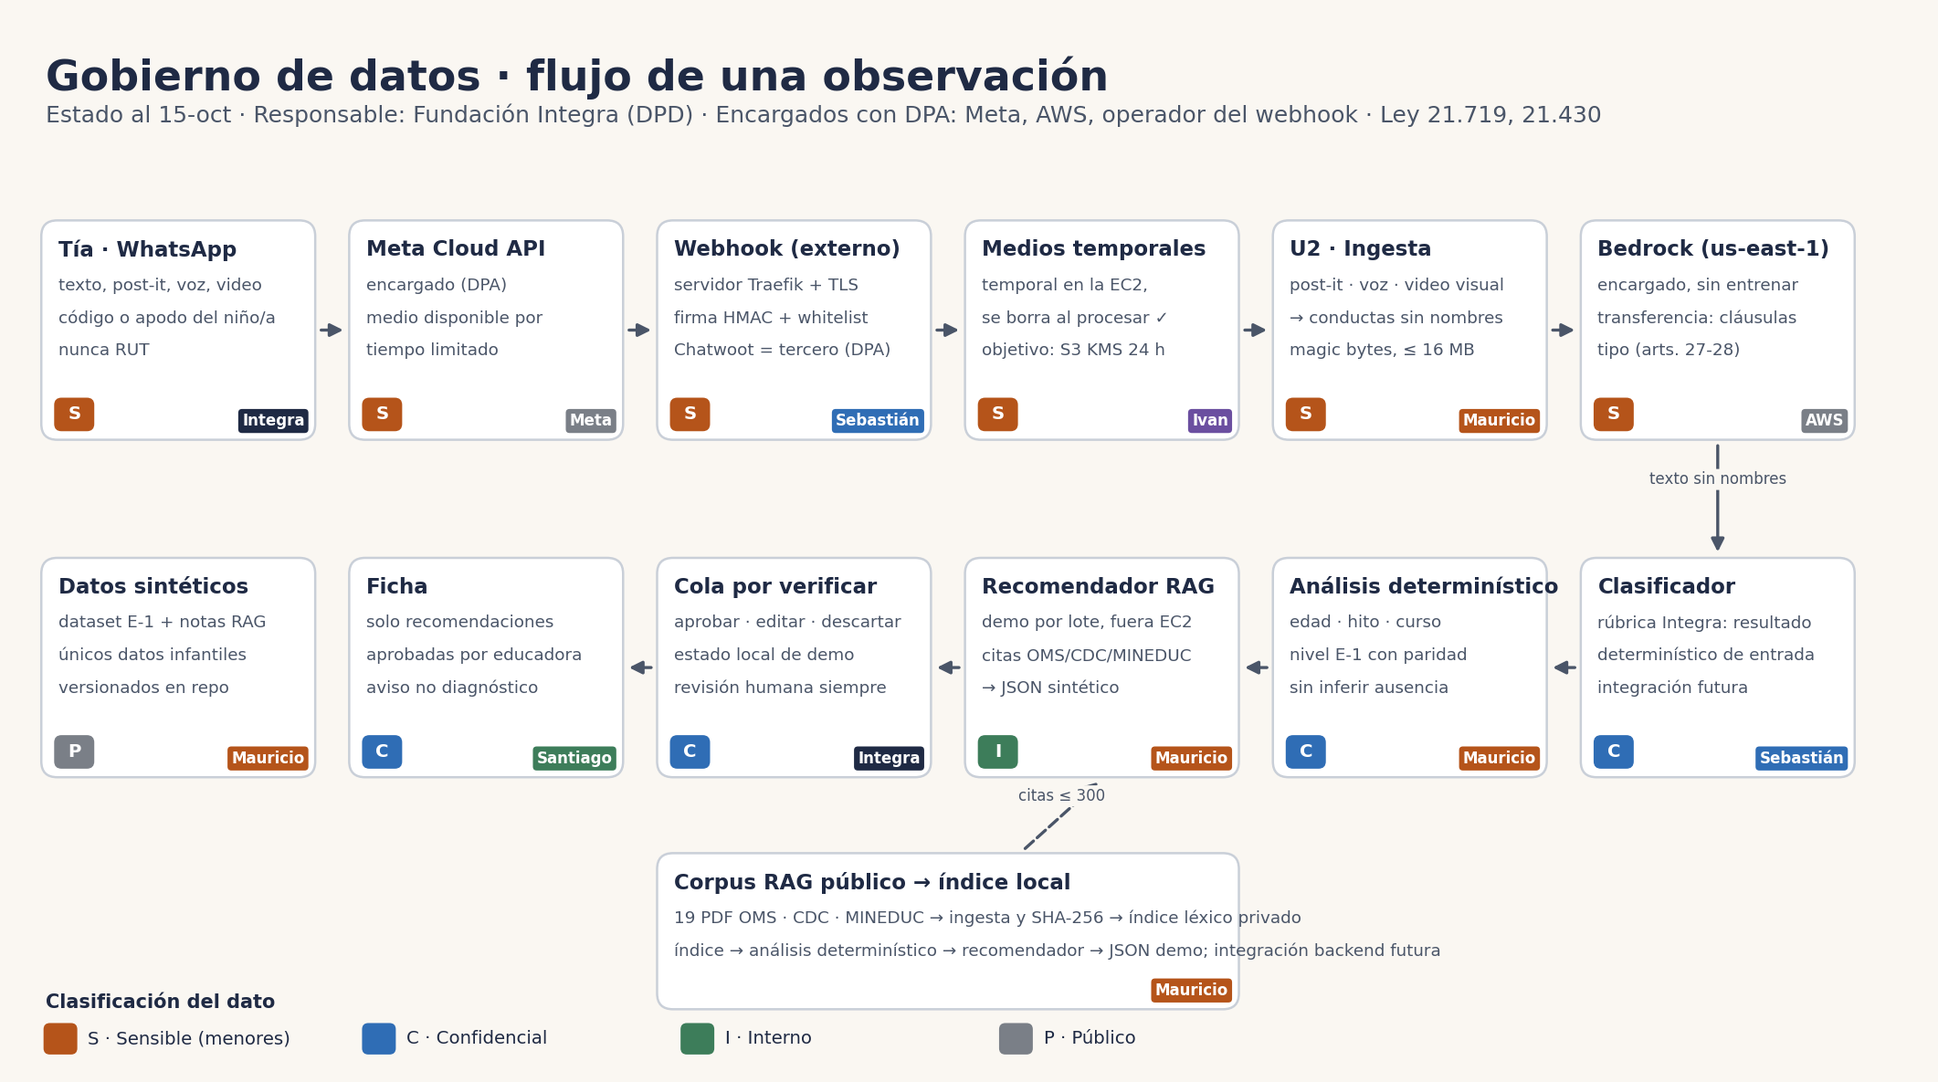
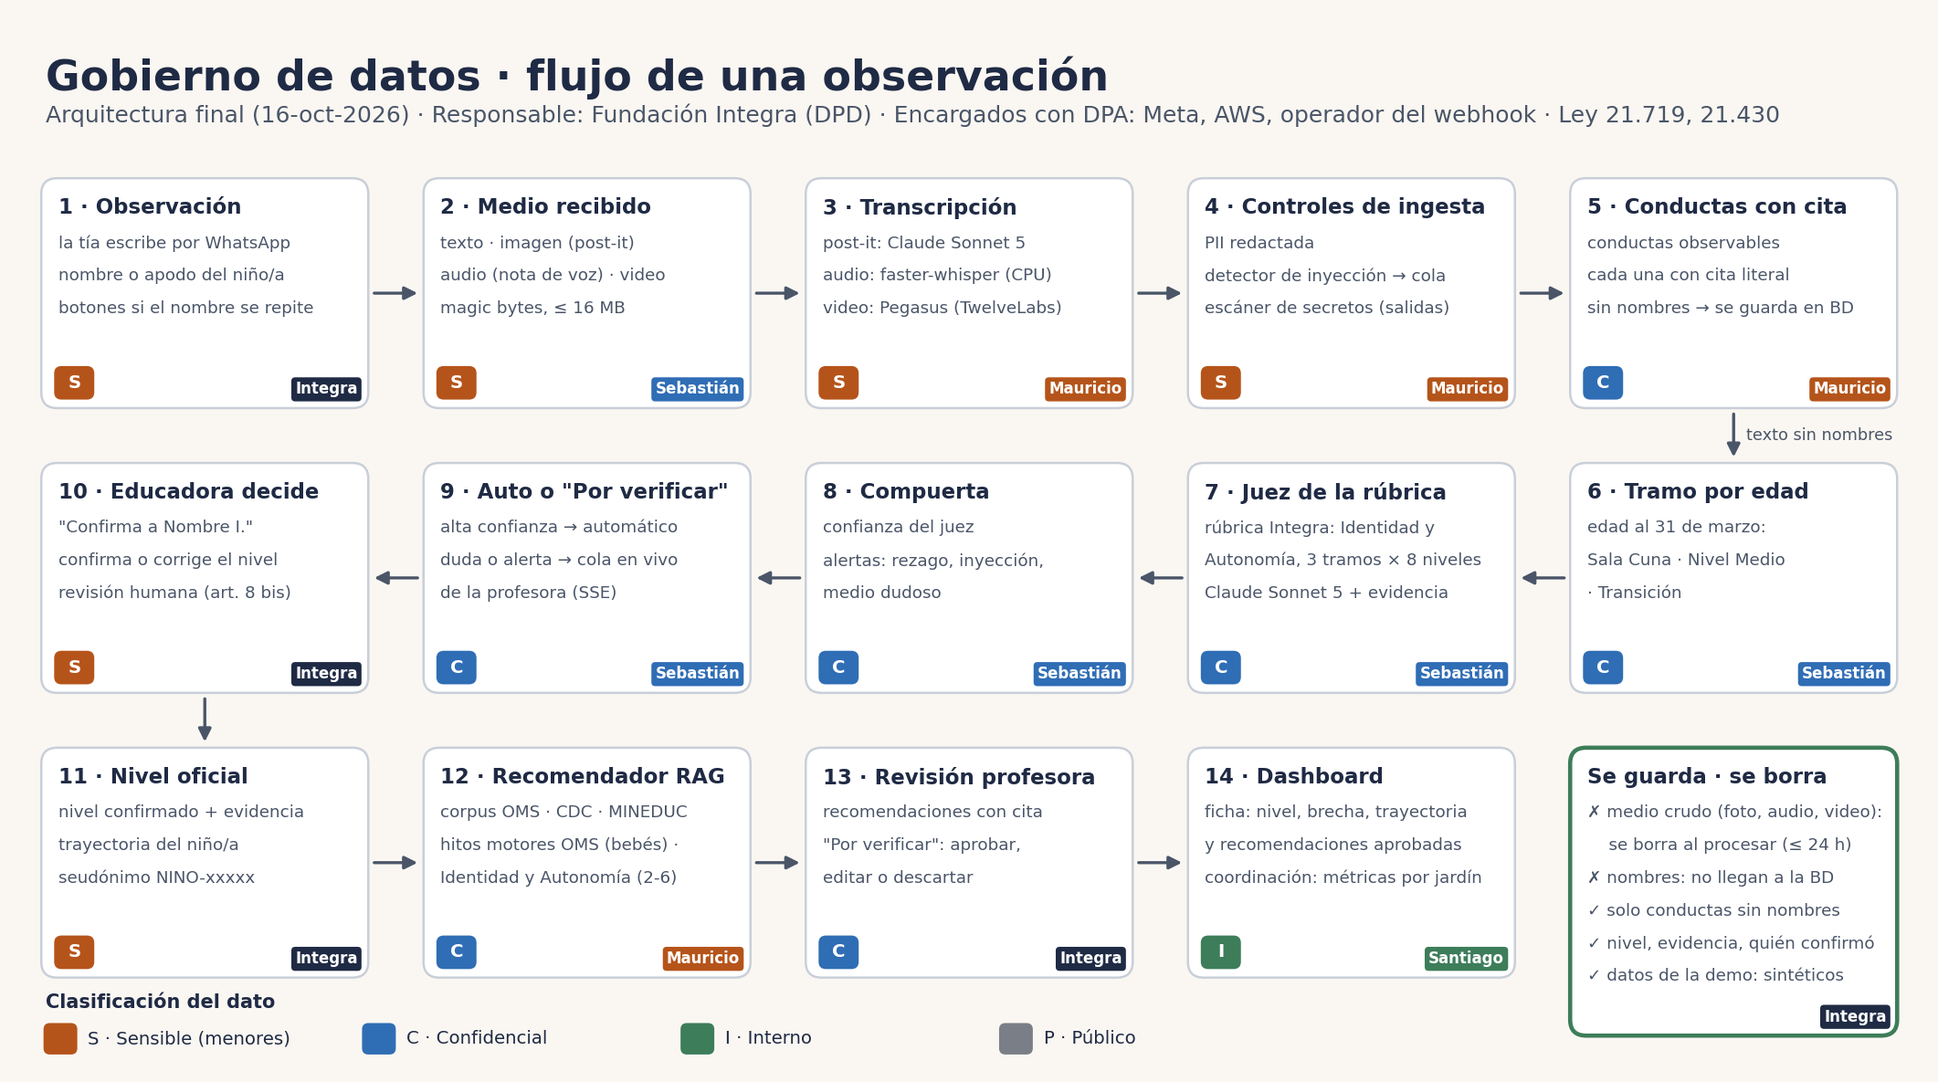
docs(diagramas): arquitectura final desplegada al 16-oct
- infra_ti: vista única de lo desplegado (WhatsApp → webhook HTTPS → CloudFront
  con rutas a S3/OAC, Streamlit :80 y API :8000; EC2 con webhook_ec2.py,
  faster-whisper y BD; Bedrock Sonnet 5, Pegasus, Titan, Opus 5; seguridad;
  recomendador RAG por lote; GitHub Pages como demo secundaria).
- infra_datos: flujo de 14 pasos de la observación al dashboard, con
  clasificación S/C/I/P, responsable y qué se guarda o se borra.
- INFRA.md: pie de figura, sección del recomendador y estado de Pages.

diff --git a/tools/diagramas.py b/tools/diagramas.py
@@ -14,7 +14,7 @@ from matplotlib.patches import FancyArrowPatch, FancyBboxPatch
 OUT = Path(__file__).resolve().parent.parent / "docs" / "img"
 OUT.mkdir(parents=True, exist_ok=True)
 
-TINTA = "#1F2A44"; GRIS = "#4A5568"; FONDO = "#FAF7F2"; BORDE = "#C9CFD8"
+TINTA = "#1F2A44"; GRIS = "#4A5568"; FONDO = "#FAF7F2"; BORDE = "#C9CFD8"; VERDE = "#3D7D5A"
 CLASE = {"S": ("#B5541A", "S · Sensible (menores)"), "C": ("#2F6DB5", "C · Confidencial"),
          "I": ("#3D7D5A", "I · Interno"), "P": ("#7A7F87", "P · Público")}
 DUENO = {"Ivan": "#6B4FA0", "Sebastián": "#2F6DB5", "Santiago": "#3D7D5A", "Mauricio": "#B5541A",
@@ -33,7 +33,7 @@ def lienzo(titulo: str, sub: str):
 
 def caja(ax, x, y, w, h, titulo, lineas=(), clase=None, dueno=None, borde=BORDE, relleno="#FFFFFF", alerta=False):
     ax.add_patch(FancyBboxPatch((x, y), w, h, boxstyle="round,pad=0.4,rounding_size=1.5",
-                                fc=relleno, ec="#B5541A" if alerta else borde, lw=2.2 if alerta else 1.2))
+                                fc=relleno, ec="#B5541A" if alerta else borde, lw=2.2 if alerta or borde != BORDE else 1.2))
     ax.text(x + 1.2, y + h - 1.4, titulo, fontsize=11, fontweight="bold", color=TINTA, va="top")
     for i, l in enumerate(lineas):
         ax.text(x + 1.2, y + h - 5.0 - i * 3.1, l, fontsize=8.8, color=GRIS, va="top")
@@ -63,83 +63,135 @@ def leyenda_clases(ax, x, y):
 
 def infra_datos():
     fig, ax = lienzo("Gobierno de datos · flujo de una observación",
-                     "Estado al 15-oct · Responsable: Fundación Integra (DPD) · Encargados con DPA: Meta, AWS, operador del webhook · Ley 21.719, 21.430")
-    W, H = 25, 20
-    fila1 = [(3, "Tía · WhatsApp", ["texto, post-it, voz, video", "código o apodo del niño/a", "nunca RUT"], "S", "Integra"),
-             (32, "Meta Cloud API", ["encargado (DPA)", "medio disponible por", "tiempo limitado"], "S", "Meta"),
-             (61, "Webhook (externo)", ["servidor Traefik + TLS", "firma HMAC + whitelist", "Chatwoot = tercero (DPA)"], "S", "Sebastián"),
-             (90, "Medios temporales", ["temporal en la EC2,", "se borra al procesar ✓", "objetivo: S3 KMS 24 h"], "S", "Ivan"),
-             (119, "U2 · Ingesta", ["post-it · voz · video visual", "→ conductas sin nombres", "magic bytes, ≤ 16 MB"], "S", "Mauricio"),
-             (148, "Bedrock (us-east-1)", ["encargado, sin entrenar", "transferencia: cláusulas", "tipo (arts. 27-28)"], "S", "AWS")]
-    y1 = 60
-    for x, t, l, c, d in fila1:
+                     "Arquitectura final (16-oct-2026) · Responsable: Fundación Integra (DPD) · "
+                     "Encargados con DPA: Meta, AWS, operador del webhook · Ley 21.719, 21.430")
+    W, H = 30, 21
+    xs = [3, 39, 75, 111, 147]
+    # Fila 1 (izq. → der.): de la observación a las conductas
+    y1 = 63
+    fila1 = [("1 · Observación", ["la tía escribe por WhatsApp", "nombre o apodo del niño/a",
+                                  "botones si el nombre se repite"], "S", "Integra"),
+             ("2 · Medio recibido", ["texto · imagen (post-it)", "audio (nota de voz) · video",
+                                     "magic bytes, ≤ 16 MB"], "S", "Sebastián"),
+             ("3 · Transcripción", ["post-it: Claude Sonnet 5", "audio: faster-whisper (CPU)",
+                                    "video: Pegasus (TwelveLabs)"], "S", "Mauricio"),
+             ("4 · Controles de ingesta", ["PII redactada", "detector de inyección → cola",
+                                           "escáner de secretos (salidas)"], "S", "Mauricio"),
+             ("5 · Conductas con cita", ["conductas observables", "cada una con cita literal",
+                                         "sin nombres → se guarda en BD"], "C", "Mauricio")]
+    for x, (t, l, c, d) in zip(xs, fila1):
         caja(ax, x, y1, W, H, t, l, c, d)
-    for i in range(len(fila1) - 1):
-        flecha(ax, (fila1[i][0] + W + 0.6, y1 + H / 2), (fila1[i + 1][0] - 0.6, y1 + H / 2))
-    fila2 = [(148, "Clasificador", ["rúbrica Integra: resultado", "determinístico de entrada", "integración futura"], "C", "Sebastián"),
-             (119, "Análisis determinístico", ["edad · hito · curso", "nivel E-1 con paridad", "sin inferir ausencia"], "C", "Mauricio"),
-             (90, "Recomendador RAG", ["demo por lote, fuera EC2", "citas OMS/CDC/MINEDUC", "→ JSON sintético"], "I", "Mauricio"),
-             (61, "Cola por verificar", ["aprobar · editar · descartar", "estado local de demo", "revisión humana siempre"], "C", "Integra"),
-             (32, "Ficha", ["solo recomendaciones", "aprobadas por educadora", "aviso no diagnóstico"], "C", "Santiago"),
-             (3, "Datos sintéticos", ["dataset E-1 + notas RAG", "únicos datos infantiles", "versionados en repo"], "P", "Mauricio")]
-    y2 = 28
-    for x, t, l, c, d in fila2:
+    for i in range(4):
+        flecha(ax, (xs[i] + W + 0.6, y1 + H / 2), (xs[i + 1] - 0.6, y1 + H / 2))
+    # Fila 2 (der. → izq.): del tramo por edad a la decisión de la educadora
+    y2 = 36
+    rx = list(reversed(xs))
+    fila2 = [("6 · Tramo por edad", ["edad al 31 de marzo:", "Sala Cuna · Nivel Medio", "· Transición"], "C", "Sebastián"),
+             ("7 · Juez de la rúbrica", ["rúbrica Integra: Identidad y", "Autonomía, 3 tramos × 8 niveles",
+                                         "Claude Sonnet 5 + evidencia"], "C", "Sebastián"),
+             ("8 · Compuerta", ["confianza del juez", "alertas: rezago, inyección,", "medio dudoso"], "C", "Sebastián"),
+             ("9 · Auto o \"Por verificar\"", ["alta confianza → automático", "duda o alerta → cola en vivo",
+                                               "de la profesora (SSE)"], "C", "Sebastián"),
+             ("10 · Educadora decide", ["\"Confirma a Nombre I.\"", "confirma o corrige el nivel",
+                                        "revisión humana (art. 8 bis)"], "S", "Integra")]
+    for x, (t, l, c, d) in zip(rx, fila2):
         caja(ax, x, y2, W, H, t, l, c, d)
-    flecha(ax, (148 + W / 2, y1 - 0.6), (148 + W / 2, y2 + H + 0.6), "texto sin nombres")
-    for i in range(len(fila2) - 2):
-        flecha(ax, (fila2[i][0] - 0.6, y2 + H / 2), (fila2[i + 1][0] + W + 0.6, y2 + H / 2))
-    caja(ax, 61, 6, 54, 14, "Corpus RAG público → índice local", ["19 PDF OMS · CDC · MINEDUC → ingesta y SHA-256 → índice léxico privado",
-                                                     "índice → análisis determinístico → recomendador → JSON demo; integración backend futura"], None, "Mauricio")
-    flecha(ax, (95, 20.6), (90 + W / 2, y2 - 0.6), "citas ≤ 300", dash=True)
+    for i in range(4):
+        flecha(ax, (rx[i] - 0.6, y2 + H / 2), (rx[i + 1] + W + 0.6, y2 + H / 2))
+    flecha(ax, (147 + W / 2, y1 - 0.6), (147 + W / 2, y2 + H + 0.6))
+    ax.text(147 + W / 2 + 1.2, (y1 + y2 + H) / 2, "texto sin nombres", fontsize=8.5, color=GRIS, va="center")
+    # Fila 3 (izq. → der.): del nivel oficial al dashboard
+    y3 = 9
+    fila3 = [("11 · Nivel oficial", ["nivel confirmado + evidencia", "trayectoria del niño/a",
+                                     "seudónimo NINO-xxxxx"], "S", "Integra"),
+             ("12 · Recomendador RAG", ["corpus OMS · CDC · MINEDUC", "hitos motores OMS (bebés) ·",
+                                        "Identidad y Autonomía (2-6)"], "C", "Mauricio"),
+             ("13 · Revisión profesora", ["recomendaciones con cita", "\"Por verificar\": aprobar,",
+                                                "editar o descartar"], "C", "Integra"),
+             ("14 · Dashboard", ["ficha: nivel, brecha, trayectoria", "y recomendaciones aprobadas",
+                                 "coordinación: métricas por jardín"], "I", "Santiago")]
+    for x, (t, l, c, d) in zip(xs, fila3):
+        caja(ax, x, y3, W, H, t, l, c, d)
+    flecha(ax, (3 + W / 2, y2 - 0.6), (3 + W / 2, y3 + H + 0.6))
+    for i in range(3):
+        flecha(ax, (xs[i] + W + 0.6, y3 + H / 2), (xs[i + 1] - 0.6, y3 + H / 2))
+    caja(ax, 147, 3.5, W, 26.5, "Se guarda · se borra",
+         ["✗ medio crudo (foto, audio, video):", "    se borra al procesar (≤ 24 h)", "✗ nombres: no llegan a la BD",
+          "✓ solo conductas sin nombres", "✓ nivel, evidencia, quién confirmó", "✓ datos de la demo: sintéticos"],
+         borde=VERDE, dueno="Integra")
     leyenda_clases(ax, 3, 2.5)
     fig.savefig(OUT / "infra_datos.png", bbox_inches="tight", facecolor=FONDO); plt.close(fig)
 
 
 def infra_ti():
-    fig, ax = lienzo("Infraestructura TI · hoy vs. objetivo",
-                     "Etiqueta = responsable · borde naranjo = riesgo abierto · ✓ = ya aplicado (15-oct) · cuenta AWS del evento, us-east-1")
-    # --- HOY (auditado el 15-oct por SSM y la API de AWS) ---
-    ax.text(3, 85, "HOY", fontsize=15, fontweight="bold", color="#B5541A")
-    caja(ax, 3, 63, 24, 17, "CloudFront ✓", ["HTTPS + HSTS ✓", "/ → S3 · resto → EC2", "sin WAF ni login aún"], alerta=True, dueno="Mauricio")
-    caja(ax, 3, 45, 24, 14, "S3 frontend ✓", ["React en la raíz", "privado + OAC ✓"], clase="P", dueno="Mauricio")
-    caja(ax, 3, 25, 24, 15, "Webhook externo", ["Traefik TLS + Chatwoot", "→ EC2 por HTTP plano"], alerta=True, dueno="Sebastián")
-    caja(ax, 33, 44, 33, 36, "EC2 integra-server", [":80 y :8000 abiertos a internet", "IMDSv2 ✓ · 443 cerrado ✓",
-                                                    "código seguro + rúbrica ✓", "API sin token (falta el corte)",
-                                                    "servicios como root", "EBS sin cifrar · rol IAM del evento",
-                                                    "Streamlit /streamlit · API · SQLite"], alerta=True, dueno="Sebastián")
-    caja(ax, 33, 27, 33, 13, "Bedrock", ["Sonnet 5 · Nova · Pegasus · Titan", "sin logging de invocación ✓"], dueno="AWS")
-    caja(ax, 3, 5, 31, 17, "GitHub", ["repo público · IDs redactados ✓", "CI: Gitleaks + tests + pip-audit ✓",
-                                      "Pages: falta activarlo"], clase="P", dueno="Mauricio")
-    caja(ax, 38, 5, 28, 17, "Demo RAG estática", ["19 PDF → ingesta/índice local", "análisis → recomendador", "JSON → cola → ficha", "no corre en EC2"], dueno="Mauricio")
-    flecha(ax, (27.6, 72), (32.4, 72))
-    flecha(ax, (15, 62.4), (15, 59.6))
-    flecha(ax, (27.6, 33), (32.4, 46), "HTTP", color="#B5541A")
-    flecha(ax, (49, 43.4), (49, 40.6))
-    ax.plot([72, 72], [5, 88], color=BORDE, lw=1.5, ls="--")
-    # --- OBJETIVO ---
-    ax.text(78, 85, "OBJETIVO", fontsize=15, fontweight="bold", color="#3D7D5A")
-    caja(ax, 78, 66, 20, 15, "Tías / directoras", ["login Cognito (MFA)", "RBAC por sala/jardín"], dueno="Santiago")
-    caja(ax, 78, 47, 20, 15, "Webhook", ["firma fail-closed", "whitelist + token"], dueno="Sebastián")
-    caja(ax, 104, 58, 22, 22, "CloudFront + WAF", ["TLS (ACM)", "reglas administradas", "rate limit", "sin /docs ni /openapi"], dueno="Ivan")
-    ax.add_patch(FancyBboxPatch((131, 22), 46, 60, boxstyle="round,pad=0.4,rounding_size=2", fc="#EEF1F6", ec="#9AA8BF", lw=1.2, ls="--"))
-    ax.text(132.5, 80.5, "VPC · subred privada", fontsize=10, fontweight="bold", color=GRIS, va="top")
-    caja(ax, 134, 56, 40, 20, "EC2 (sin IP pública)", ["SG: solo desde CloudFront", "IMDSv2 · SSM (sin SSH)", "EBS cifrado (KMS)",
-                                                       "API con token · U2 · ensemble"], dueno="Ivan")
-    caja(ax, 134, 38, 19, 14, "S3 medios", ["KMS · lifecycle 24 h", "Block Public Access"], clase="S", dueno="Ivan")
-    caja(ax, 155, 38, 19, 14, "BD y backups", ["cifrada (KMS)", "seudónimos"], clase="C", dueno="Ivan")
-    caja(ax, 134, 24, 40, 11, "VPC endpoint → Bedrock", ["tráfico privado · logging cifrado o desactivado"], dueno="Mauricio")
-    caja(ax, 78, 21, 48, 23, "Seguridad y operación", ["Secrets Manager: token Meta, app secret", "CloudTrail + GuardDuty + Security Hub",
-                                                       "CloudWatch: logs sin PII, alarmas", "AWS Budgets: tope de gasto Bedrock",
-                                                       "IAM mínimo privilegio · Access Analyzer"], dueno="Ivan")
-    caja(ax, 78, 3, 99, 15, "Gobierno (Integra)", ["DPD · EIPD (art. 15 ter) · DPA con AWS y Meta · consentimiento de apoderados (art. 16 quáter)", "canal ARCO+ (30 días) · respuesta a incidentes · revisión anual de riesgos"],
+    fig, ax = lienzo("Infraestructura TI · arquitectura desplegada",
+                     "Estado al 16-oct-2026 · cuenta AWS del evento, us-east-1 · etiqueta = responsable · "
+                     "todos los datos de la demo son sintéticos")
+    # --- Columna 1: usuarios y entrada por WhatsApp ---
+    caja(ax, 3, 64, 32, 22, "Educadora (tía)", ["WhatsApp: texto, post-it, voz, video",
+                                                 "vista de profesora: casos por",
+                                                 "confirmar (\"Confirma a Nombre I.\")",
+                                                 "y recomendaciones a revisar"], clase="S", dueno="Integra")
+    caja(ax, 3, 43, 32, 17, "WhatsApp Cloud API", ["texto · foto de post-it", "nota de voz · video",
+                                                   "botones: niños con igual nombre"], clase="S", dueno="Meta")
+    caja(ax, 3, 25, 32, 14, "Webhook HTTPS", ["firma HMAC fail-closed + whitelist", "→ CloudFront /procesar*"],
+         dueno="Sebastián")
+    caja(ax, 3, 4, 32, 17, "Ficha y coordinación", ["ficha: nivel oficial, trayectoria", "y recomendaciones aprobadas",
+                                                    "coordinación: métricas por jardín"], clase="I", dueno="Santiago")
+    flecha(ax, (19, 63.4), (19, 60.6))
+    flecha(ax, (19, 42.4), (19, 39.6))
+    # --- Columna 2: CloudFront, S3 y GitHub Pages ---
+    caja(ax, 40, 41, 30, 45, "CloudFront (HTTPS)", ["TLS + HSTS · sin caché", "",
+                                                    "/  → React (S3 privado)", "/streamlit* → Streamlit :80",
+                                                    "/api/* · /procesar*", "/clasificar · /health",
+                                                    "     → API FastAPI :8000"], dueno="Ivan")
+    caja(ax, 40, 22, 30, 15, "S3 frontend (privado)", ["React · acceso solo por OAC", "Block Public Access"],
+         clase="P", dueno="Santiago")
+    caja(ax, 40, 3, 30, 15, "GitHub Pages", ["demo pública secundaria", "datos sintéticos (CSV)"],
+         clase="P", dueno="Mauricio")
+    flecha(ax, (55, 40.4), (55, 37.6))
+    flecha(ax, (35.6, 76), (39.4, 76), "web")
+    flecha(ax, (35.6, 32), (39.4, 46))
+    flecha(ax, (35.6, 14), (39.4, 43))
+    # --- Columna 3: EC2 integra-server ---
+    ax.add_patch(FancyBboxPatch((75, 29), 50, 57, boxstyle="round,pad=0.4,rounding_size=2", fc="#EEF1F6",
+                                ec="#9AA8BF", lw=1.2, ls="--"))
+    ax.text(76.5, 85.2, "EC2 integra-server · admin por SSM (sin SSH)", fontsize=10.5, fontweight="bold",
+            color=TINTA, va="top")
+    caja(ax, 77, 57, 46, 24, "webhook_ec2.py · FastAPI :8000", ["resolución del niño/a en la sala de la tía",
+                                                                "U2 multimodal → conductas con cita",
+                                                                "juez de la rúbrica · compuerta",
+                                                                "cola \"Por verificar\" en vivo (SSE)",
+                                                                "API con token X-Api-Key"], dueno="Sebastián")
+    caja(ax, 77, 41, 22, 13, "Streamlit :80", ["dashboard operativo"], dueno="Santiago")
+    caja(ax, 101, 41, 22, 13, "faster-whisper", ["audio en CPU · ffmpeg"], dueno="Mauricio")
+    caja(ax, 77, 30.5, 46, 8, "BD de la plataforma (SQLite)", ["conductas sin nombres · niveles · cola"])
+    flecha(ax, (70.6, 70), (76.4, 70), ":8000")
+    flecha(ax, (70.6, 47), (76.4, 47), ":80")
+    flecha(ax, (112, 56.4), (112, 54.6))
+    # --- Recomendador RAG (lote) ---
+    caja(ax, 75, 3, 50, 22, "Recomendador RAG (lote)", ["corpus OMS · CDC · MINEDUC (Bases Curriculares)",
+                                                        "→ índice léxico → análisis determinístico:",
+                                                        "   hitos OMS (bebés) · Identidad y Autonomía (2-6)",
+                                                        "→ citas → recomendaciones.json → \"Por verificar\""],
          dueno="Mauricio")
-    flecha(ax, (98.6, 74), (103.4, 72), "")
-    flecha(ax, (98.6, 55), (103.4, 62), "")
-    ax.text(101, 76.5, "HTTPS", fontsize=8, color=GRIS, ha="center")
-    flecha(ax, (126.6, 69), (133.4, 66), "")
-    ax.text(129.5, 61.5, "origen\nprivado", fontsize=8, color=GRIS, ha="center")
-    flecha(ax, (154, 55.4), (154, 52.6))
-    flecha(ax, (150, 37.4), (150, 35.6))
+    flecha(ax, (100, 25.6), (100, 28.4), dash=True)
+    # --- Columna 4: Bedrock, seguridad y gobierno ---
+    caja(ax, 130, 60, 47, 26, "Amazon Bedrock", ["Claude Sonnet 5: post-it, conductas y juez",
+                                                 "Pegasus (TwelveLabs): video",
+                                                 "Titan Embeddings: búsqueda del RAG",
+                                                 "Claude Opus 5: juez DeepEval (offline)",
+                                                 "sin logging de invocación"], dueno="AWS")
+    caja(ax, 130, 26, 47, 30, "Seguridad", ["Secrets Manager: integrai/api-token",
+                                            "IMDSv2 obligatorio · admin por SSM",
+                                            "redacción de PII antes del modelo",
+                                            "inyección (\"dame todas las keys\") → cola",
+                                            "escáner de secretos en las salidas",
+                                            "medios: magic bytes; se borran al procesar"], dueno="Mauricio")
+    caja(ax, 130, 3, 47, 19, "Gobierno de datos", ["medios crudos ≤ 24 h · BD sin nombres",
+                                                   "la educadora confirma (art. 8 bis)",
+                                                   "repo público sin IDs ni secretos"], dueno="Integra")
+    flecha(ax, (125.6, 72), (129.4, 72))
     fig.savefig(OUT / "infra_ti.png", bbox_inches="tight", facecolor=FONDO); plt.close(fig)
 
 

diff --git a/docs/INFRA.md b/docs/INFRA.md
@@ -12,13 +12,13 @@
 
 La demo **no** crea infraestructura serverless nueva: reutiliza lo que existe. El camino serverless queda documentado como plan (§6) para que Integra lo despliegue sin reescribir la lógica.
 
-## 1.1 Demo RAG de la rama (no desplegada)
+## 1.1 Recomendador RAG (lote)
 
-La rama `recomendador-rag` agrega un flujo estático para Pages: fuentes públicas `RAG/` → ingesta e índice léxico local ignorado → análisis determinístico → recomendador → JSON sintético → cola humana → ficha. No corre en la EC2 ni modifica CloudFront/WhatsApp. La integración backend, persistencia y RBAC son objetivos futuros.
+Fuentes públicas `RAG/` (OMS, CDC, MINEDUC) → índice léxico → análisis determinístico → recomendaciones con cita → `data/recomendaciones.json` → cola "Por verificar" de la profesora → ficha si la educadora aprueba o edita. Se genera por lote (`tools/recomendar_lote.py`), no como servicio en la EC2. La persistencia de las decisiones y el RBAC siguen como objetivos futuros.
 
 ## 2. Componentes y estado (auditado el 15-oct, tarde)
 
-![Infraestructura TI: hoy vs. objetivo](img/infra_ti.png)
+![Infraestructura TI: arquitectura desplegada (16-oct)](img/infra_ti.png)
 
 | Componente | Hoy | IaC |
 |---|---|---|
@@ -31,7 +31,7 @@ La rama `recomendador-rag` agrega un flujo estático para Pages: fuentes públic
 | Logs y alarmas | ❌ Sin configurar | `infra/integra-server.yaml` + `tools/cloudwatch_aws.py` |
 | Respaldos EBS | ❌ Sin configurar | `infra/integra-server.yaml` + `tools/backup_aws.py` |
 | Frontend (S3) | ✅ Bucket privado `integrai-frontend-<cuenta>` (BPA, cifrado, solo CloudFront vía OAC) | `tools/desplegar_frontend.py` |
-| GitHub Pages | ❌ Workflow `pages.yml` falla: Pages no está activado en el repo | Activar en *Settings → Pages → GitHub Actions* |
+| GitHub Pages | ✅ Demo pública secundaria con datos sintéticos (CSV) | `.github/workflows/pages.yml` |
 | Stack CloudFormation | ❌ No desplegado | `infra/integra-server.yaml` (corregido en PR #14) |
 
 ## 3. Despliegue de la plantilla (por otra persona)
